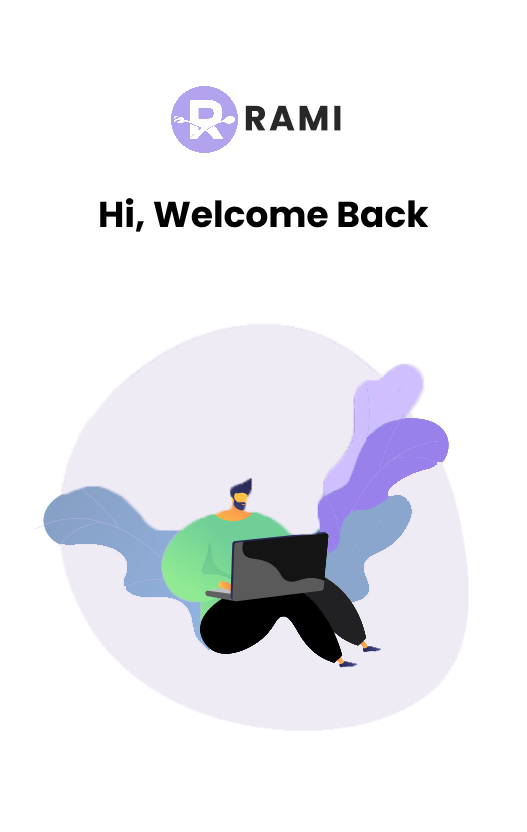
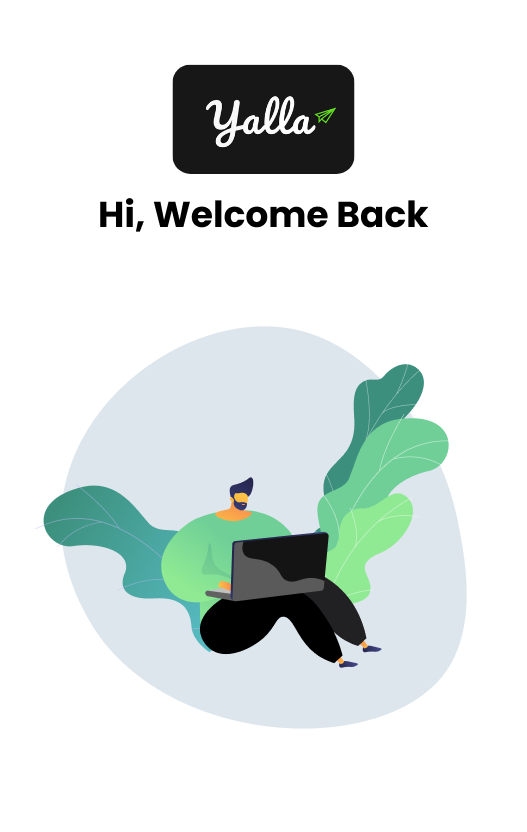
navbar changes

diff --git a/src/components/Sidebar/AdminSidebar.jsx b/src/components/Sidebar/AdminSidebar.jsx
@@ -12,7 +12,7 @@ import {
 import MenuIcon from '@mui/icons-material/Menu'
 import routes from '../../routes'
 import useStyles from './styles'
-import { ReactComponent as Logo } from '../../assets/svg/logo.svg'
+import Logo from '../../assets/svg/logo.png'
 import { useLocation } from 'react-router-dom'
 
 const drawerWidth = 240
@@ -30,7 +30,8 @@ function AdminSidebar(props) {
     // <Box className={classes.sidebarContainer}>
     <Box className={classes.sidebarBox}>
       <Toolbar className={[classes.rowDisplay, classes.logo]}>
-        <Logo fontSize="small" />
+        {/* <Logo fontSize="small" /> */}
+        <img src={Logo} height={50} width={50} alt='Yalla' />
         <Typography
           variant="h2"
           className={[classes.headingText, classes.logoText]}>
